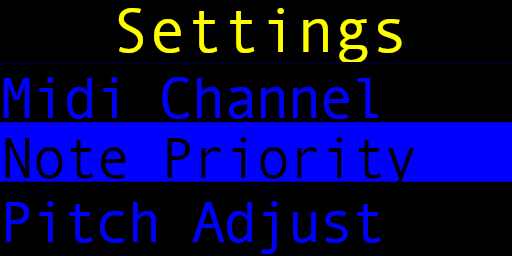
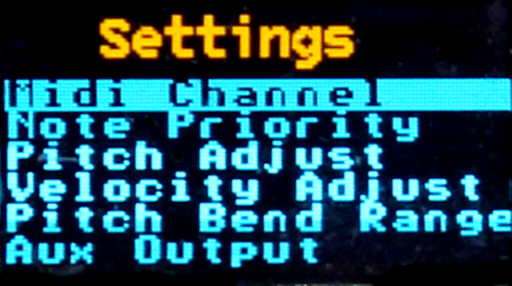
update docs and images

diff --git a/src/menu/AuxOutputMenu.h b/src/menu/AuxOutputMenu.h
@@ -22,6 +22,7 @@ public:
 protected:
     std::vector<OutputMappingRoute> getAvailableRoutes() override {
         return std::vector<OutputMappingRoute>{
+            OutputMappingRoute_None,
             OutputMappingRoute_ModWheel,
             OutputMappingRoute_Aftertouch,
             OutputMappingRoute_Expression,

diff --git a/src/menu/ControlOutputMenu.h b/src/menu/ControlOutputMenu.h
@@ -24,6 +24,7 @@ public:
 protected:
     std::vector<OutputMappingRoute> getAvailableRoutes() override {
         return std::vector<OutputMappingRoute>{
+            OutputMappingRoute_None,
             OutputMappingRoute_ModWheel,
             OutputMappingRoute_Aftertouch,
             OutputMappingRoute_Expression,

diff --git a/docs/MENU_SYSTEM.md b/docs/MENU_SYSTEM.md
@@ -15,9 +15,9 @@ Note however that no settings are persisted until you exit back to the dashboard
 * [Pitch Adjustment Settings](#pitch-adjustment-settings)
 * [Velocity Adjustment Settings](#velocity-adjustment-settings)
 * [Pitch Bend Range Settings](#pitch-bend-range-settings)
-* [Aux Output Settings](#aux-output-settings)
-* [Control Output Settings](#control-output-settings)
+* [Aux Output Settings](#aux-and-control-output-settings)
 * [Trigger Duration Settings](#trigger-duration-settings)
+* [Clock Divisions Settings](#clock-division-settings)
 * [Output Voltage Settings](#output-voltage-settings)
 * [Display Settings](#display-settings)
 * [Tuning Menu](#tuning-menu)
@@ -82,34 +82,30 @@ Sets the number of +/- octaves the pitch bend will cover.
 Use the `up` and `down` arrows to change the slider for the pitch bend range (in octaves).
 Press the `enter` key to confirm the new setting, or the `back` key to cancel.
 
-## Aux Output Settings
+## Aux and Control Output Settings
 
 <img src="./images/aux_output.png" alt="aux output settings" />
-
-Sets the function of what events are sent to the aux channel. 
-Only one event type can use the aux output at a time.
-The available events allowed are:
-
-* Aftertouch (channel only, no poly aftertouch)
-* Expression (CC message `0x0B`)
-
-Use the `up` and `down` arrows to select the aux output function, and `enter` to change it.
-The current setting with have a star next to it (`*`).
-Use the `back` button to go back to the main menu.
-
-## Control Output Settings
-
 <img src="./images/ctl_output.png" alt="control output settings" />
 
-Sets the function of what events are sent to the control channel.
-Only one event type can use the control output at a time.
+Sets the function of what events are sent to the aux or control CV output. 
+Only one event type can be routed to each of the outputs, however, you can assign the same event type to both.
 The available events allowed are:
 
+* None (do not route anything to the output)
+* Aftertouch (channel only, no poly aftertouch)
+* Expression (CC message `0x0B`)
 * Mod Wheel (responds to CC message `0x01`)
 * Effect 1 (CC message `0x0C`)
 * Effect 2 (CC message `0x0D`)
+* Gate : +5v signal when the gate is active from a note on event
+* Trigger : +5v signal pulse when a note is triggered
+* Run (Sys message `0xFA`, Start and `0xFB`, Continue) : +5v signal high, only turned off by a reset or reset all
+* Reset (Sys message `0xFC`, Stop) : +5v signal pulse
+* Note : midi note number when there is a note on event
+* Velocity : velocity value when there is a note on event
+* Clock ticks : +5v pulse when a clock sync is received (sys message `0xF8`). The clock ticks are configurable to pulse with every tick, or every 2, 4, 6, 8, 12 or 24 ticks.
 
-Use the `up` and `down` arrows to select the control output function, and `enter` to change it.
+Use the `up` and `down` arrows to select the aux output function, and `enter` to change it.
 The current setting with have a star next to it (`*`).
 Use the `back` button to go back to the main menu.
 
@@ -122,6 +118,26 @@ You can set how long the trigger pulse stays high when a note is turned on.
 The values range from 25 ms to 500 ms (default 100ms).
 
 Use the `up` and `down` arrows to select the trigger duration, and `enter` to change it.
+The current setting with have a star next to it (`*`).
+Use the `back` button to go back to the main menu.
+
+## Clock Division Settings
+
+<img src="./images/clock_divisions.png" alt="Clock divisions settings" />
+
+This menu allows you to set the output to the clock +5v pulse line.
+By default, every clock tick is sent as a pulse. 
+In this menu, you can configure the system to send the pulse at other intervals including:
+
+* every tick
+* every 2 ticks
+* every 4 ticks
+* every 6 ticks
+* every 8 ticks
+* every 12 ticks
+* every 24 ticks
+
+Use the `up` and `down` arrows to select the clock divisions, and `enter` to change it.
 The current setting with have a star next to it (`*`).
 Use the `back` button to go back to the main menu.
 
@@ -165,8 +181,6 @@ Also press the `back` button on the selection screen to go back to the main menu
 
 ## Calibration Menu
 
-<img src="./images/calibration_menu.png" alt="calibration menu" />
-
 Use the `up` and `down` buttons to select which calibration to run. 
 Press `enter` to run the calibration test.
 When the test is running, press the `back` button to stop the test and return to the calibration menu.
@@ -178,11 +192,11 @@ Displays a running log of translated MIDI messages coming in.
 
 ### Note, Velocity, Aux and Control calibration
 
-You can select the output level of the CV output at 100%, 75%, 50%, or 25%.
+You can select the output level of the CV output at 100% or 50%.
 The selected output will be sent to the CV output and you can use a meter or oscilloscope to check the voltage level.
 The maximum output will depend on the setting of the output voltage in the [output voltage settings](#output-voltage-settings) for the selected CV output.
-For +10v output, the calibration should be adjusted to as close to 10v, 7.5v, 5v, and 2.5v respectively.
-For +5v output, the calibration should be adjusted to as close to 5v, 3.75v, 2.5v, and 1.25v.
+For +10v output, the calibration should be adjusted to as close to 10v and 5v respectively.
+For +5v output, the calibration should be adjusted to as close to 5v and 2.5v.
 
 ### Pulse gate, trigger and clock
 
@@ -210,6 +224,7 @@ The default settings are:
 * Aux output: aftertouch
 * Control output: mod wheel
 * Trigger duration: 100 ms
+* Clock divisions: every tick
 * Note output max voltage: +10v
 * Velocity output max voltage: +10v
 * Aux output max voltage: +10v

diff --git a/README.md b/README.md
@@ -11,16 +11,16 @@ Brought to you by [TechWave Audio](https://techwaveaudio.com)
 * MIDI input via standard 5-pin MIDI cable, or USB MIDI
 * Four CV outputs for note (1v/oct), velocity, aux and control selectable 0 to +10v or 0 to +5v
   * 1v/octave through 10 octaves (at 0 to +10v), or 5 octaves (at 0 to +5v)
-* Gate, trigger, and clock full 0 to +5v pulse outputs
+  * two CV outputs with flexible routing
+* Gate, trigger, and clock full 0 to +5v pulse outputs with divisible clock sync ticks
 * Customizable trigger output duration pulse width
 * Pitch bend response range from 0 to 5 octaves
-* Full display of output states
-* Designed to fit in 12hp, 3U module
+* Real time display of output states
+* Version 1 is designed to fit in 12hp, 3U module
 * Power Draw:
   * +5v: 70mA
   * +12v: 20mA
   * -12v: 15mA
-* Skiff friendly design 
 
 [<img src="./docs/images/TWA-help-support-small.png" alt="Help support our work!" />](https://ko-fi.com/techwaveaudio)
 
@@ -33,13 +33,15 @@ Brought to you by [TechWave Audio](https://techwaveaudio.com)
 * **Volume**: increases or decreases the velocity output.
 * **Pitch bend**: modifies any currently playing note. Adjustable range from 0 to 5 octaves. 
 * **Sustain**: holds a note on while the sustain is active.
-* **Aftertouch**: selectable as an aux output.
-* **Expression**: selectable as a aux output.
-* **Mod wheel**: selectable as a control output.
-* **Effect 1**: selectable as a control output.
-* **Effect 2**: selectable as a control output.
+* **Aftertouch**: selectable as an aux and/or control output.
+* **Expression**: selectable as an aux and/or control output.
+* **Mod wheel**: selectable as an aux and/or control output.
+* **Effect 1**: selectable as an aux and/or control output.
+* **Effect 2**: selectable as an aux and/or control output.
+* **Start** and **Continue** sequence: selectable as an aux and/or control output.
+* **Stop** sequence: selectable as an aux and/or control output.
 * **Mute** (all notes off): clears any note, velocity, and gate outputs.
-* **Clock tick**: MIDI clock ticks are sent directly to the `Clock` output.
+* **Clock tick**: MIDI clock ticks are sent directly to the `Clock` output and can be routed as an aux and/or control output.
 * **Reset**: reset the MIDI input messaging queue and stops any output.
 
 ### Inputs
@@ -53,10 +55,8 @@ Brought to you by [TechWave Audio](https://techwaveaudio.com)
 * Four CV outputs:
   * **note**: 0 to 10v output (selectable to 0 to 5v) for CV with 1v per octave.
   * **velocity**: 0 to 10v output (selectable to 0 to 5v) for velocity / volume
-  * **aux**: customizable aux message output (0v to +10v max, selectable to 0v to +5v)
-    * aux outputs from MIDI aftertouch or expression.
-  * **control**: customizable control output (0v to +10v max, selectable to 0v to +5v)
-    * control outputs from mod wheel, effect 1 or effect 2.
+  * **aux**: customizable CV output (0v to +10v max, selectable to 0v to +5v)
+  * **control**: customizable CV output (0v to +10v max, selectable to 0v to +5v)
 * **trigger**: single pulse when a note turns on, with customizable pulse on time (high / low level output)
 * **gate**: signal goes high while a note is on (high / low level output)
 * **midi clock**: 1ms pulse with each MIDI clock tick (high / low level output)
@@ -84,13 +84,11 @@ The note and clock LEDs should turn off an off a few times before the dashboard 
 
 
 The dashboard shows the status of the current MIDI channel that it is listening on, as well as various outputs:
-* `N`: The current note (note name and octave)
-* `Vel`: The current velocity (from 0 to 128, corresponding to 0v to +10/+5v)
-* `CC`: The current control value (from 0 to 128, corresponding to 0v to +10/+5v)
-* `Aux`: The current aux value (from 0 to 128, corresponding to 0v to +10/+5v)
-* `T`: The trigger level (on or off)
-* `G`: The gate level (on or off)
-* `C`: The clock level (on or off)
+* The note and octave
+* `vel`: The current velocity (from 0 to 128, corresponding to 0v to +10/+5v)
+* `aux`: The current aux value (from 0 to 128, corresponding to 0v to +10/+5v)
+* `ctl`: The current control value (from 0 to 128, corresponding to 0v to +10/+5v)
+* Indicators for the state of the trigger, gate, and clock
 
 While using the module, you can turn the dashboard display on and off via the [display settings menu](./docs/MENU_SYSTEM.md#display-settings).
 You can also adjust how often the display refreshes (set to a longer time if display events start to get dropped, shorter time for more frequent updates).
